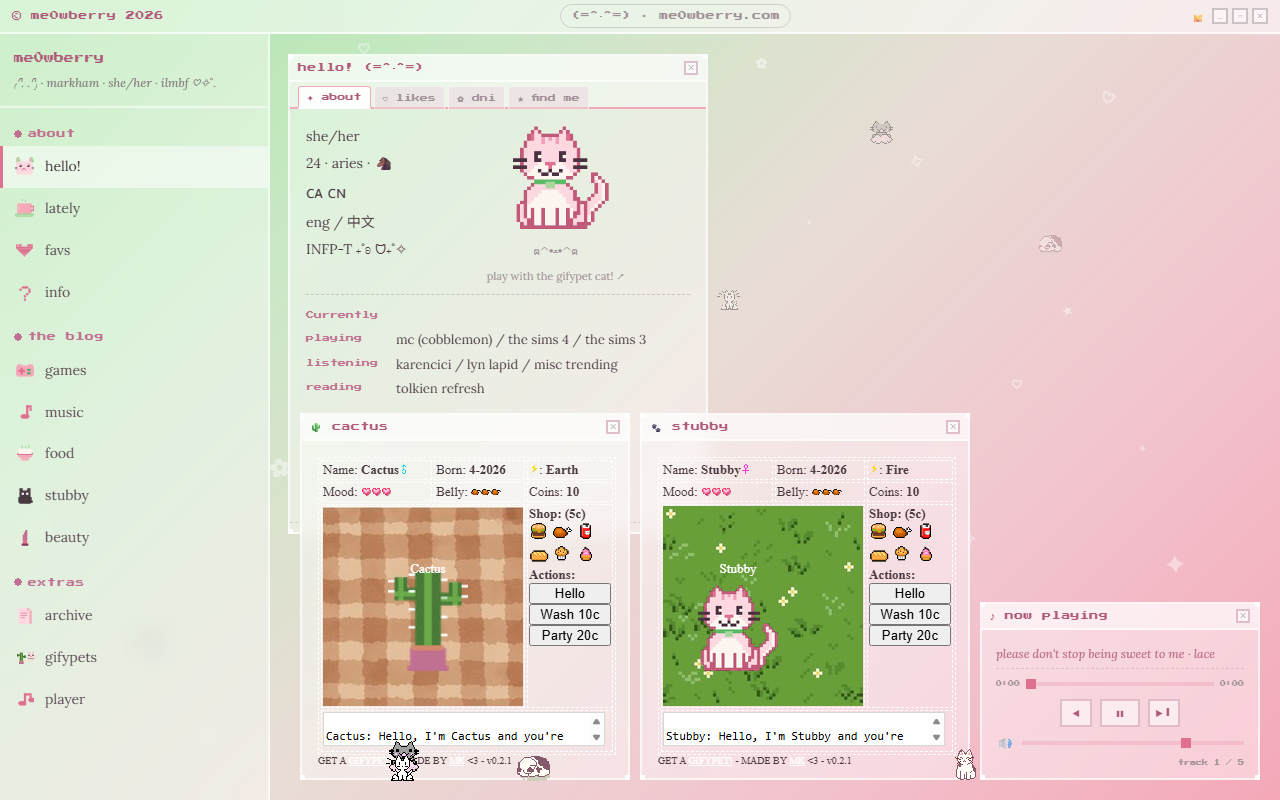
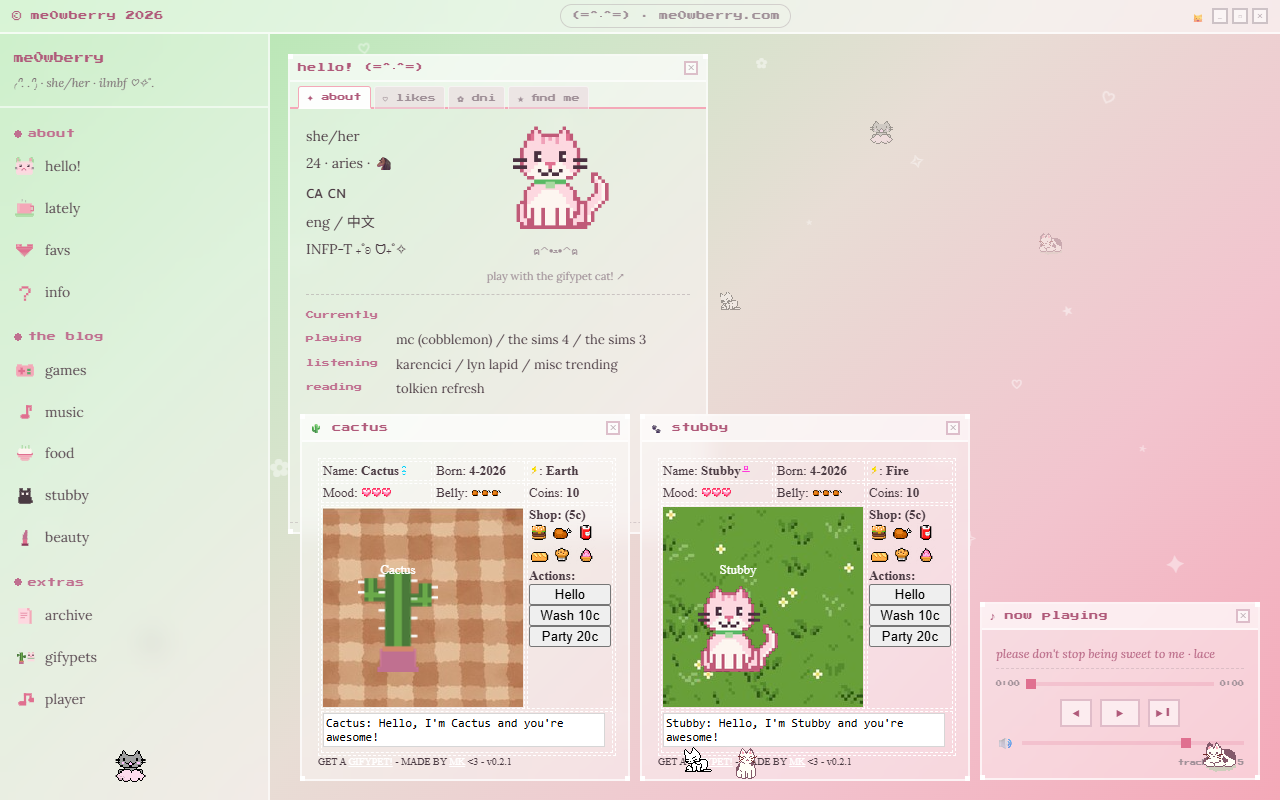
Omit location from historical desktop screenshots

diff --git a/system/index.html b/system/index.html
@@ -79,7 +79,7 @@
           <div class="system-overview-grid">
             <div class="system-card"><div class="system-card-label">status</div><div class="system-card-value">online ♡</div></div>
             <div class="system-card"><div class="system-card-label">theme</div><div class="system-card-value" id="current-theme-name">me0wberry main</div></div>
-            <div class="system-card"><div class="system-card-label">build</div><div class="system-card-value"><!-- generated-build:start -->v0.275<!-- generated-build:end --></div></div>
+            <div class="system-card"><div class="system-card-label">build</div><div class="system-card-value"><!-- generated-build:start -->v0.276<!-- generated-build:end --></div></div>
             <div class="system-card"><div class="system-card-label">since</div><div class="system-card-value">march 2026</div></div>
           </div>
 
@@ -192,11 +192,11 @@
                 <div class="site-history-copy"><span>march 16 2026</span><h3>first desktop</h3><p>panels , player + the original pink and green gradient</p></div>
               </article>
               <article class="site-history-card">
-                <a class="site-history-preview" href="../images/site-history/2026-05-post-studio-era.png" target="_blank" rel="noopener"><img src="../images/site-history/2026-05-post-studio-era.png" alt="The May 2026 desktop with two GifyPet windows and the expanded five-track music player" loading="lazy"></a>
+                <a class="site-history-preview" href="../images/site-history/2026-05-post-studio-era.png?v=20261104" target="_blank" rel="noopener"><img src="../images/site-history/2026-05-post-studio-era.png?v=20261104" alt="The May 2026 desktop with two GifyPet windows and the expanded five-track music player" loading="lazy"></a>
                 <div class="site-history-copy"><span>may 2 2026</span><h3>local post studio</h3><p>posting moved off the public site + the gifypets had moved in</p></div>
               </article>
               <article class="site-history-card">
-                <a class="site-history-preview" href="../images/site-history/2026-06-polished-desktop.png" target="_blank" rel="noopener"><img src="../images/site-history/2026-06-polished-desktop.png" alt="The June 2026 desktop with rounded chrome, foodcore icons, and a bottom taskbar" loading="lazy"></a>
+                <a class="site-history-preview" href="../images/site-history/2026-06-polished-desktop.png?v=20261104" target="_blank" rel="noopener"><img src="../images/site-history/2026-06-polished-desktop.png?v=20261104" alt="The June 2026 desktop with rounded chrome, foodcore icons, and a bottom taskbar" loading="lazy"></a>
                 <div class="site-history-copy"><span>june 10 2026</span><h3>desktop polish</h3><p>rounded chrome , foodcore icons + a bottom taskbar</p></div>
               </article>
               <article class="site-history-card">
